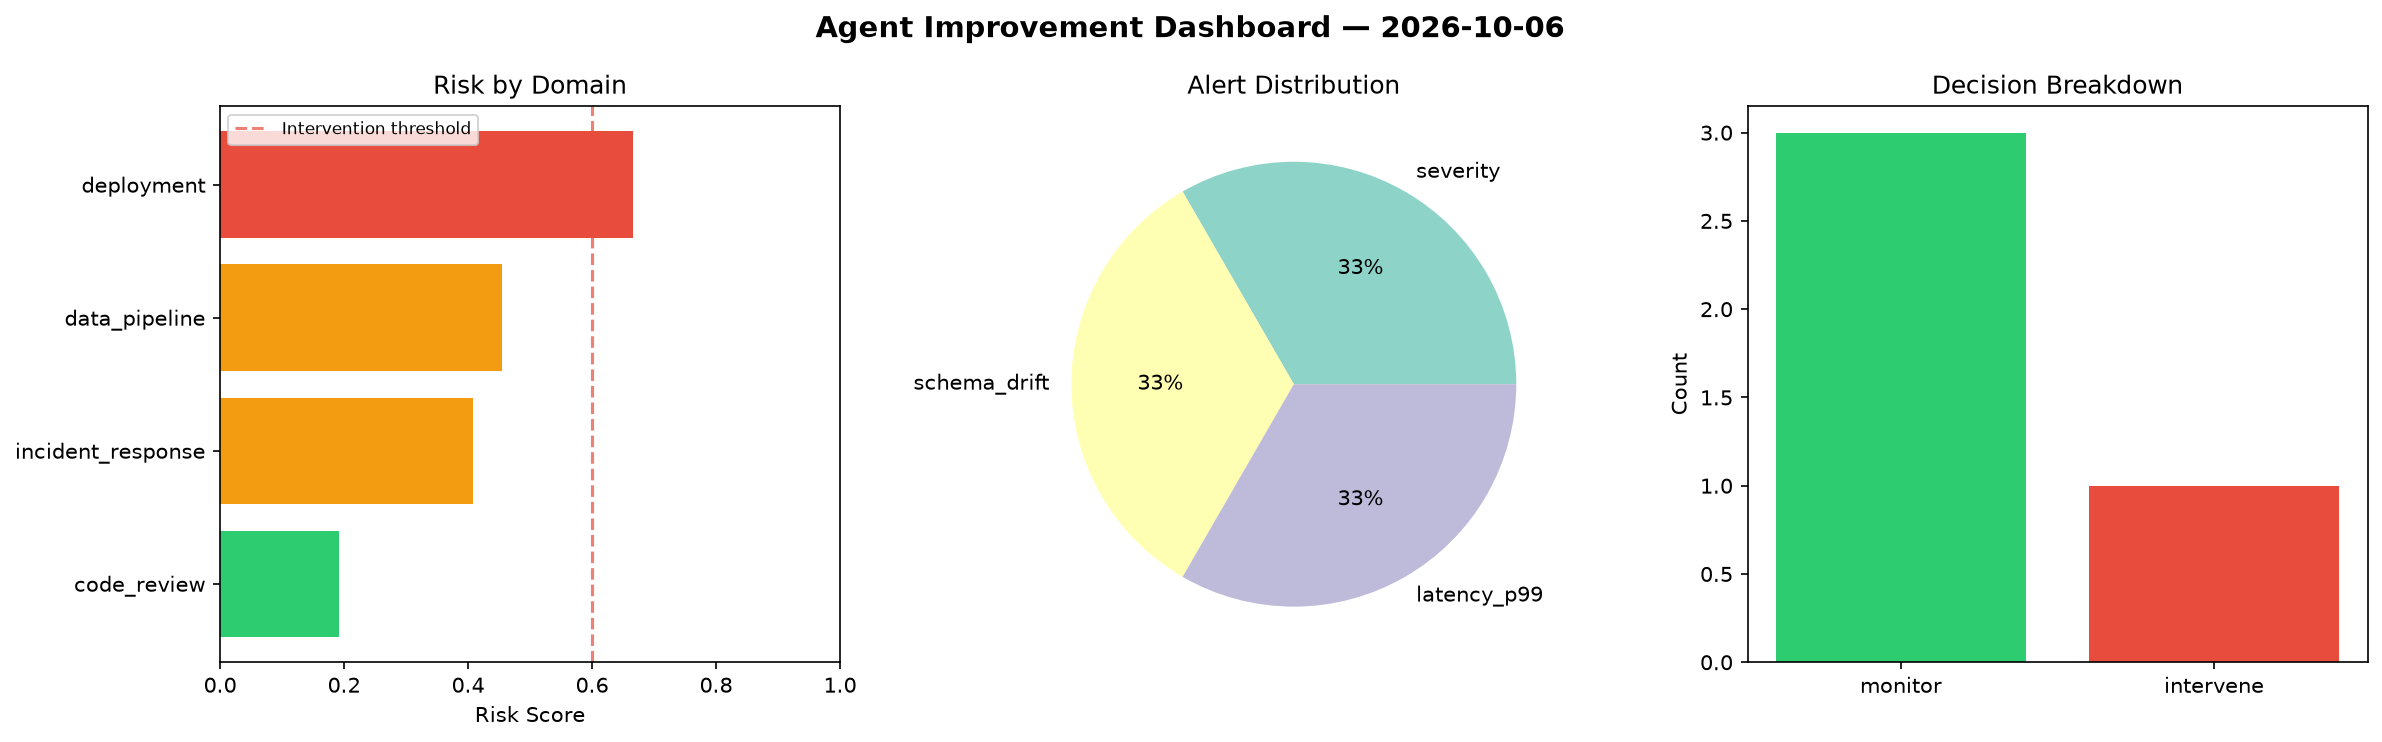
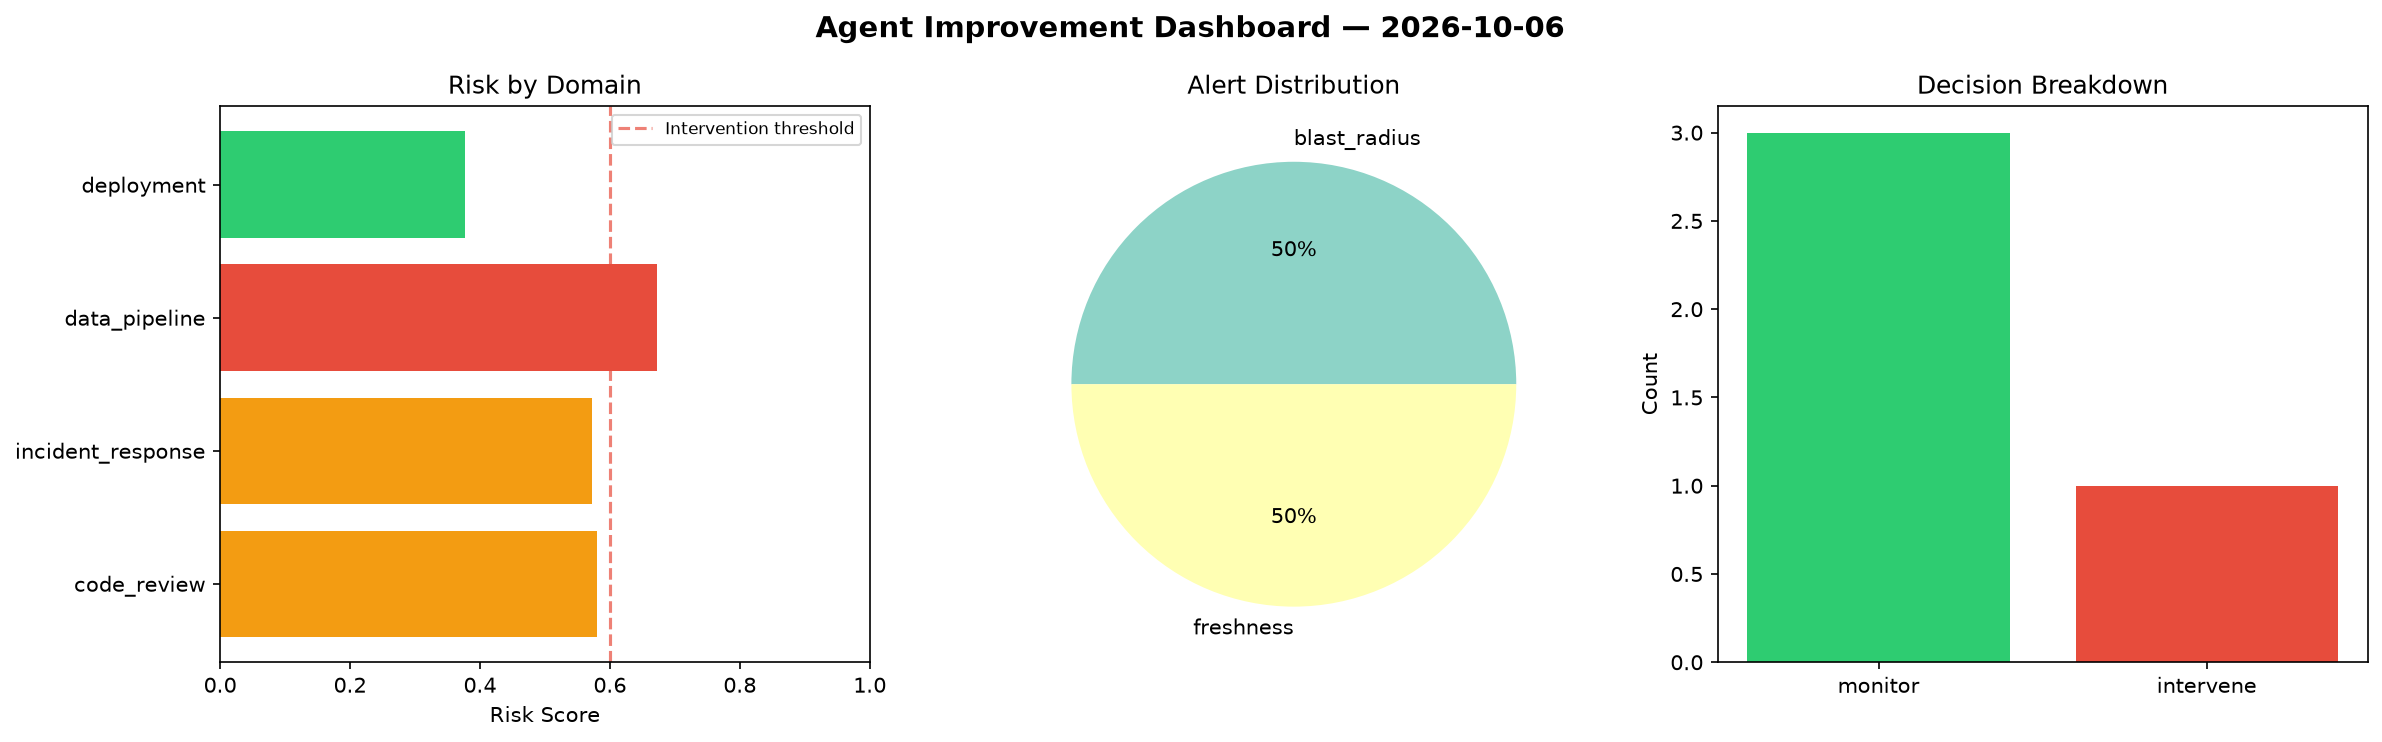
agent-improvement: daily cycle 2026-10-06T08:56

diff --git a/logs/2026-10-06.md b/logs/2026-10-06.md
@@ -1,6 +1,6 @@
 # Agent Improvement Report — 2026-10-06
 
-**Cycle ID:** `b4404283` | **Avg Risk:** 0.4298 | **Interventions:** 1/4
+**Cycle ID:** `681d49bf` | **Avg Risk:** 0.5503 | **Interventions:** 1/4
 
 ![Dashboard](2026-10-06_dashboard.png)
 
@@ -10,18 +10,18 @@
 
 | Domain | Risk Score | Decision | Alerts |
 |--------|-----------|----------|--------|
-| code_review | 0.1919 | monitor | none |
-| incident_response | 0.4077 | monitor | severity |
-| data_pipeline | 0.454 | monitor | schema_drift |
-| deployment | 0.6657 | intervene | latency_p99 |
+| code_review | 0.5804 | monitor | none |
+| incident_response | 0.5717 | monitor | blast_radius |
+| data_pipeline | 0.672 | intervene | freshness |
+| deployment | 0.3769 | monitor | none |
 
 ## Delta vs Yesterday
 
 | Domain | Today | Yesterday | Change |
 |--------|-------|-----------|--------|
-| code_review | 0.1919 | 0.5961 | 📉 -67.8% |
-| incident_response | 0.4077 | 0.2709 | 📈 50.5% |
-| data_pipeline | 0.454 | 0.615 | 📉 -26.2% |
-| deployment | 0.6657 | 0.6389 | 📈 4.2% |
+| code_review | 0.5804 | 0.5961 | 📉 -2.6% |
+| incident_response | 0.5717 | 0.2709 | 📈 111.0% |
+| data_pipeline | 0.672 | 0.615 | 📈 9.3% |
+| deployment | 0.3769 | 0.6389 | 📉 -41.0% |
 
-**Refinement:** `{'adjustment': 'tighten_thresholds', 'trend': 'degrading', 'window': 4}`
+**Refinement:** `{'adjustment': 'maintain', 'trend': 'improving', 'window': 4}`
